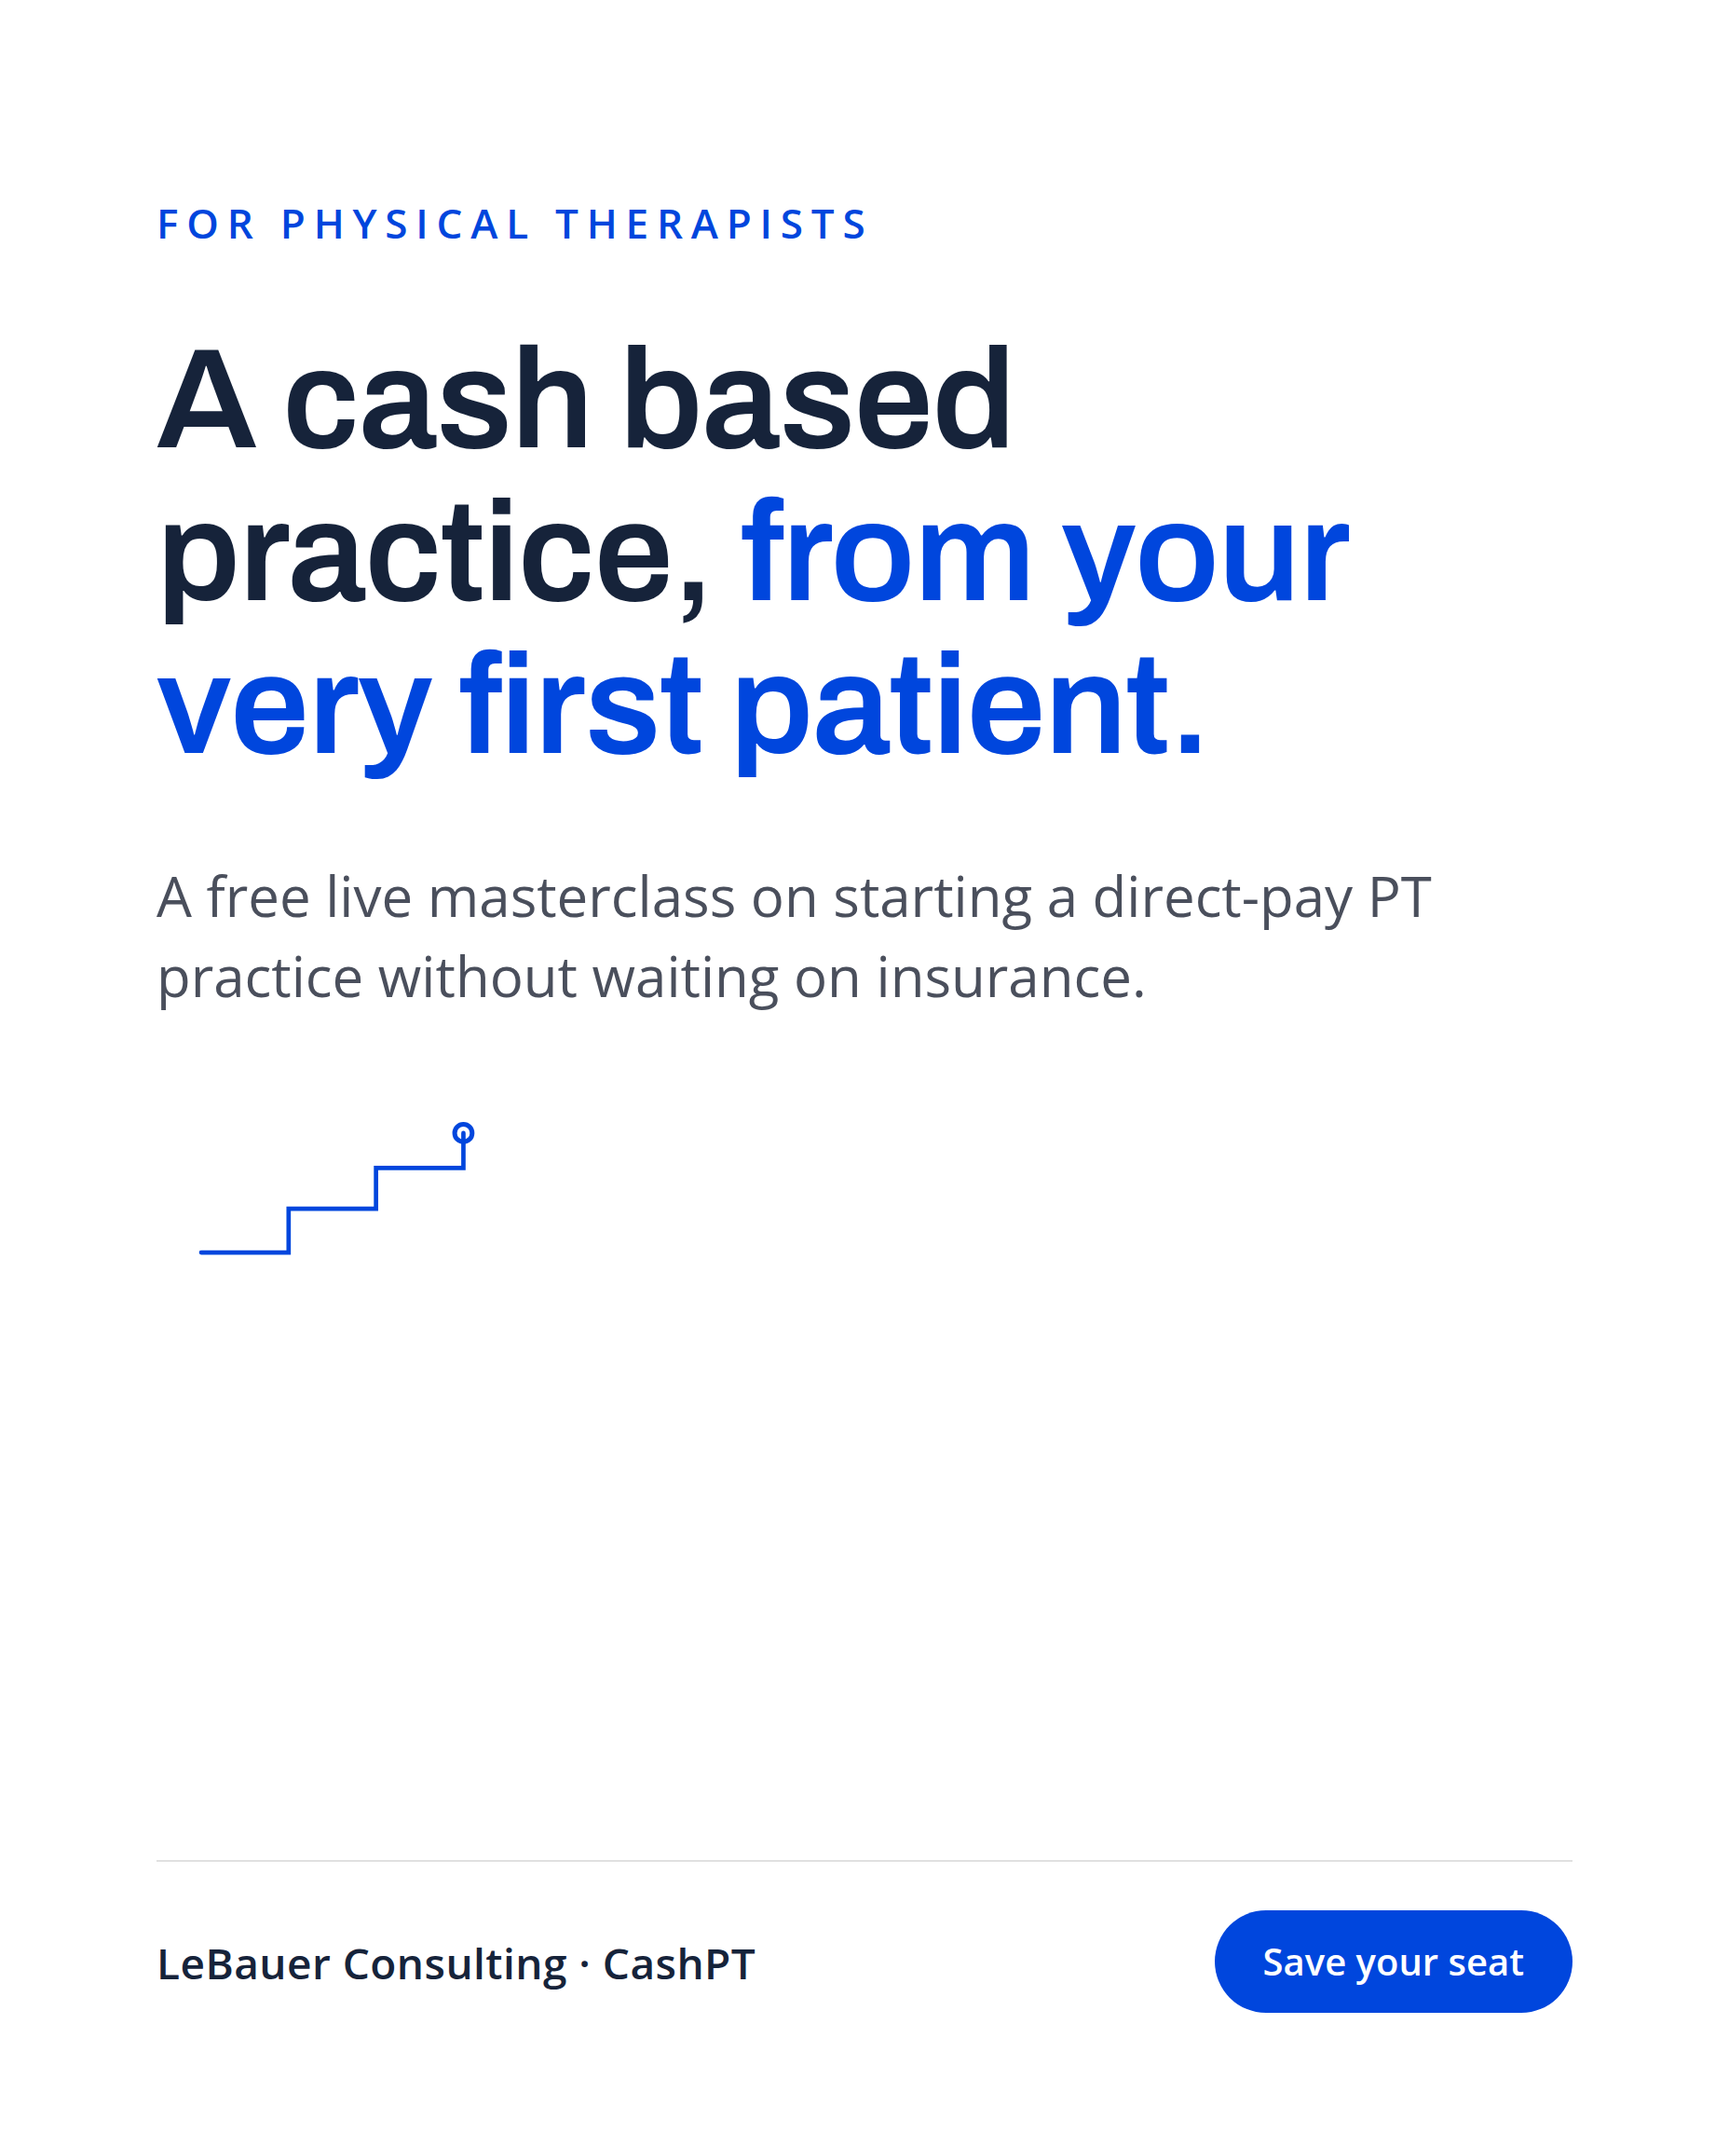
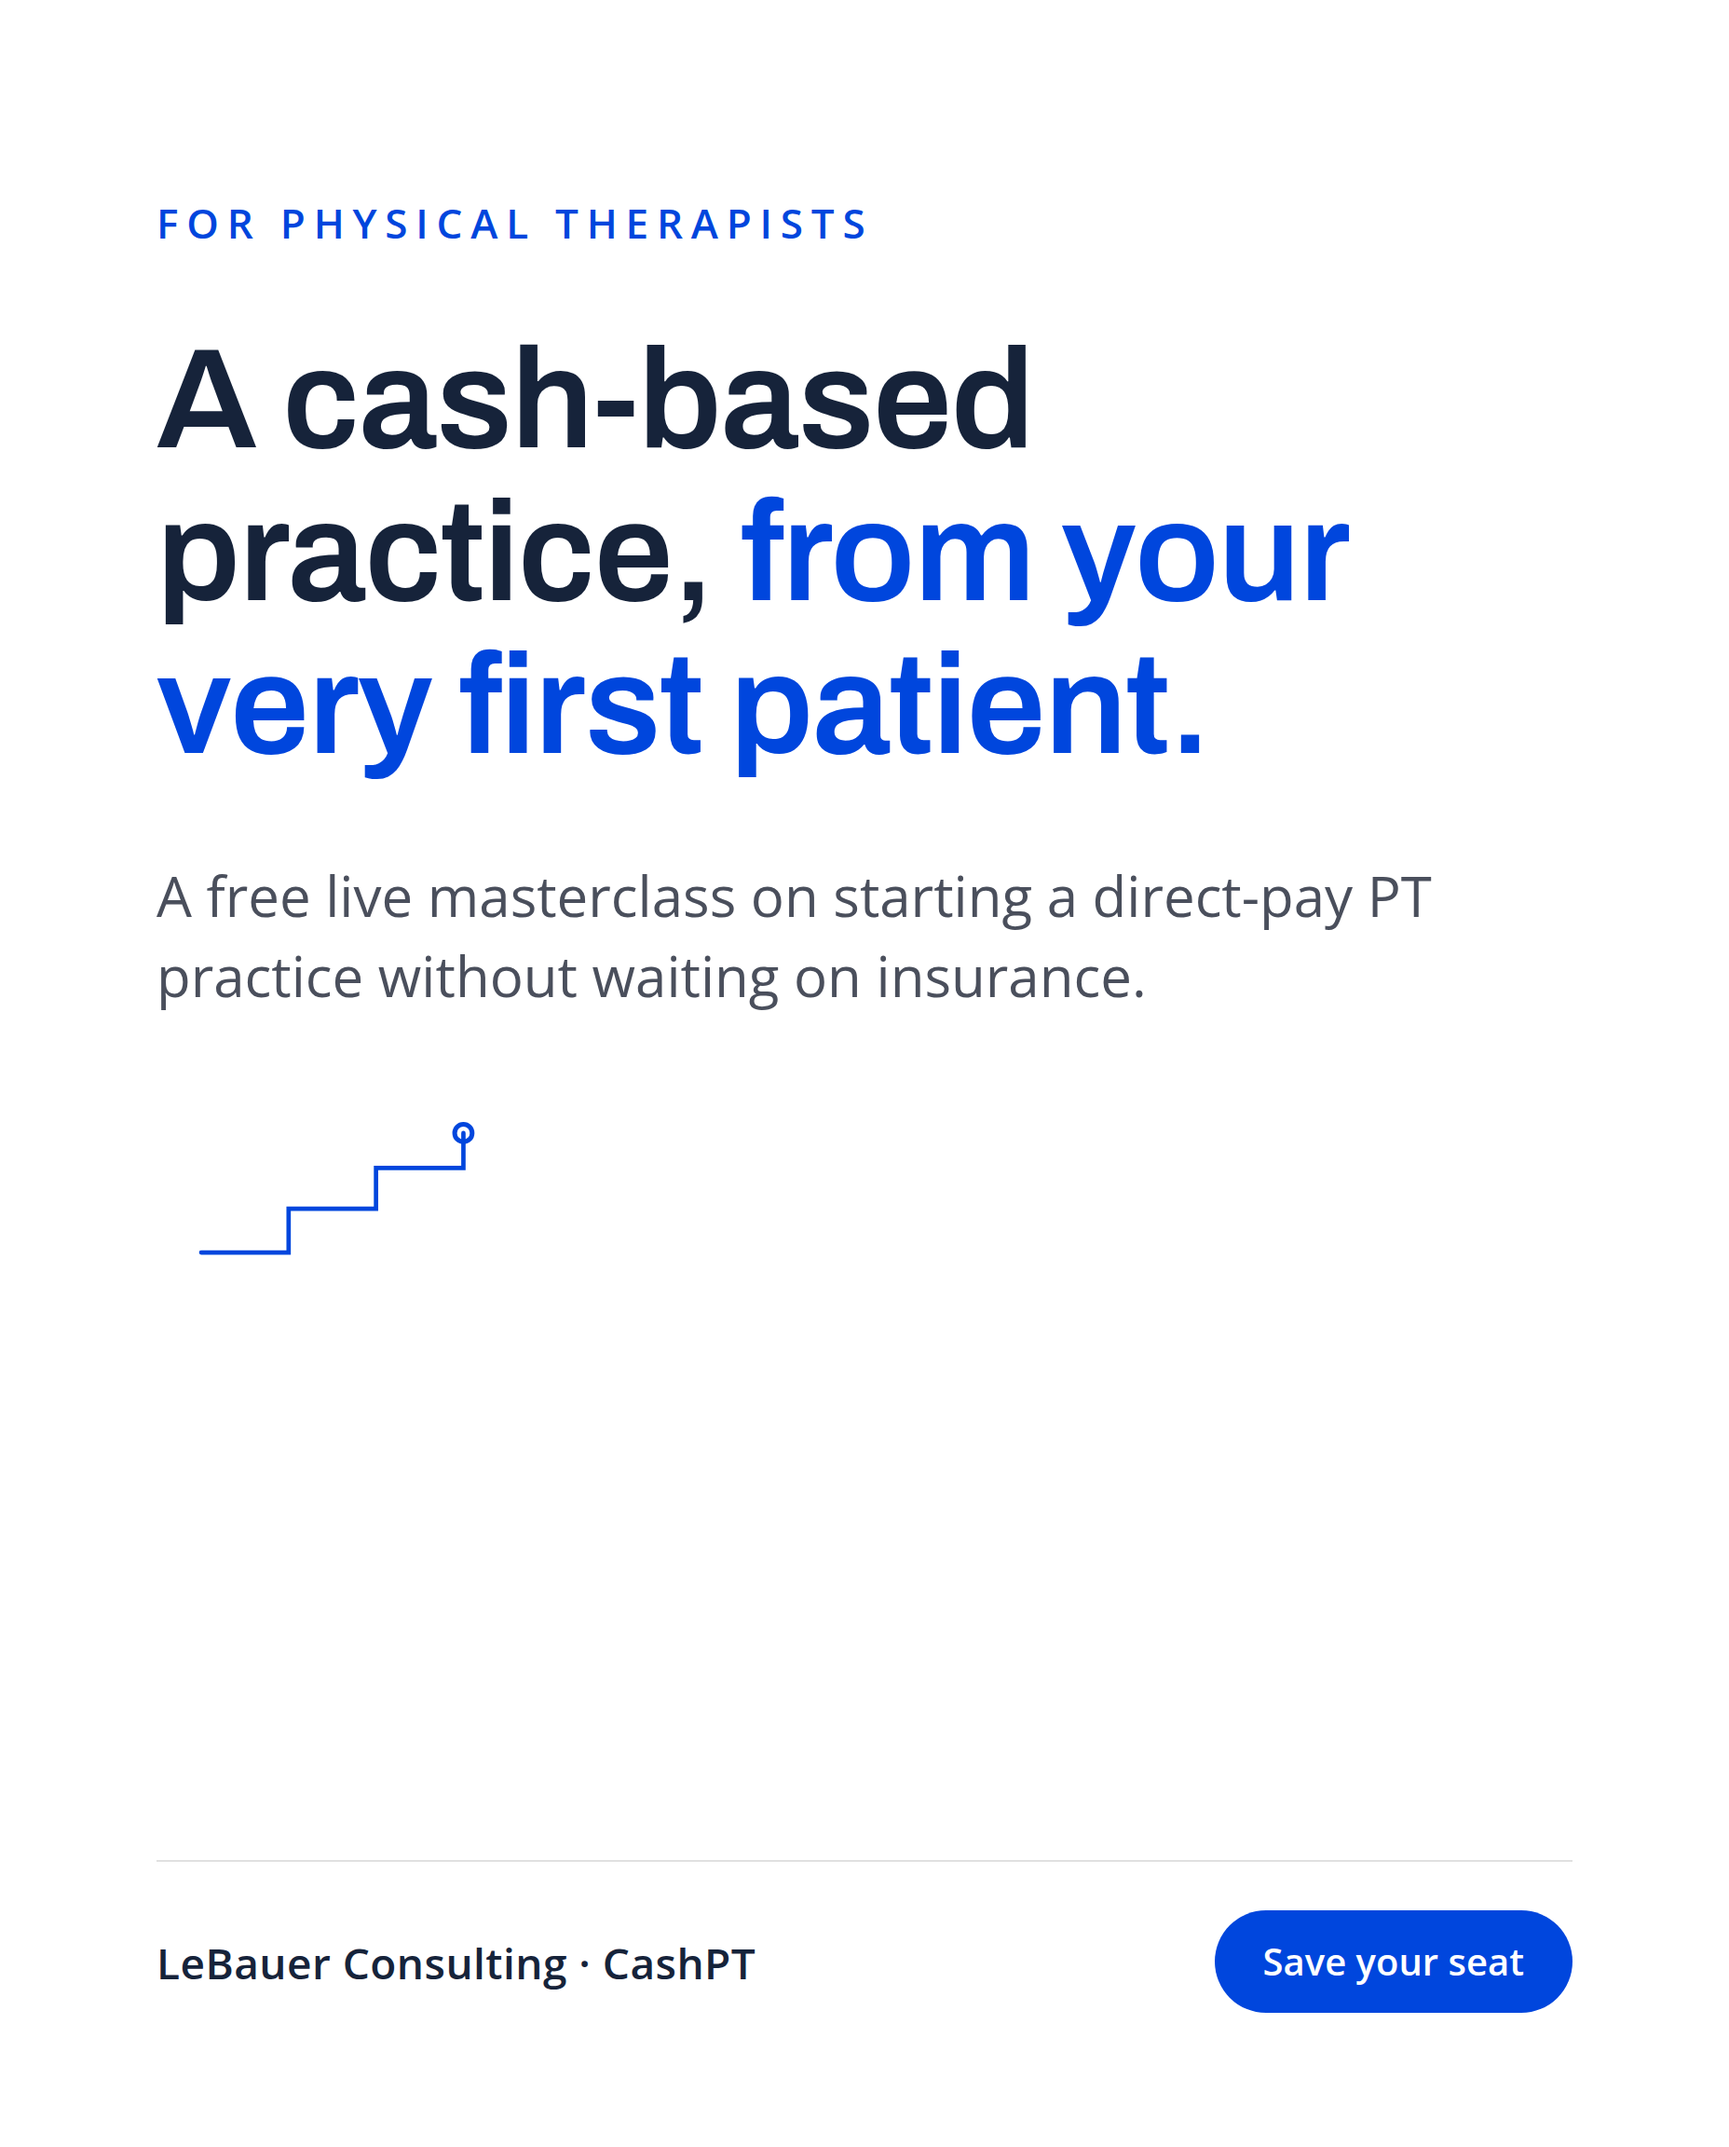
showcase: aaron-lebauer

Changed region(s): [[0.3438, 0.1562, 0.5938, 0.2188]]

diff --git a/aaron-lebauer/index.html b/aaron-lebauer/index.html
@@ -73,18 +73,18 @@
   </div>
 
   <h1>The Cash From Day One Masterclass</h1>
-  <p class="framing">Here is what I mentioned in my email: the masterclass, the numbers, and the auction data that did not fit in the message. You already built the hard part: the CashPT Blueprint, the Platinum Mastermind, and a Free Masterclass that fills from your podcast and CashPT Nation. <strong>What you don't have is a system to bring in physical therapists who have never heard of you and convert them into CashPT Platinum Mastermind members.</strong> This live masterclass is a second, always-on funnel that runs alongside your Free Masterclass, its own paid path into your Mastermind. This is that system.</p>
+  <p class="framing">Here is what I mentioned in my email: the masterclass, the numbers, and the auction data that did not fit in the message. You already built the hard part: the CashPT Blueprint, the Platinum Mastermind, and a Free Masterclass that fills from your podcast and CashPT Nation. <strong>What you don't have is a system to bring in physical therapists who have never heard of you and convert them into CashPT Platinum Mastermind members.</strong> The paid ads register cold physical therapists into this new live masterclass, a second funnel that runs alongside your organic Free Masterclass and warms those therapists for the Platinum Mastermind. This is that system.</p>
 
   <div class="section">
-    <div class="section-label">The masterclass, already built</div>
+    <div class="section-label">The masterclass, built as a sample</div>
     <iframe class="deck-embed" src="/aaron-lebauer/deck.html" allowfullscreen></iframe>
-    <div class="deck-caption">Rather than describe what I would build, I built a piece of it: a therapist-facing masterclass drawn from your CashPT Blueprint and your day-one cash story, ready to present under your name. Use arrow keys or click to navigate.</div>
+    <div class="deck-caption">Rather than describe what I would build, I built a working sample of it: a live therapist-facing masterclass drawn from your CashPT Blueprint and your day-one cash story, ready to present under your name. Use arrow keys or click to navigate.</div>
   </div>
 
   <div class="section">
     <div class="section-label">Concepts to test first</div>
     <div class="ad-grid">
-      <img src="/aaron-lebauer/ad01.png" alt="Ad concept: a cash based practice from your very first patient">
+      <img src="/aaron-lebauer/ad01.png" alt="Ad concept: a cash-based practice from your very first patient">
       <img src="/aaron-lebauer/ad02.png" alt="Ad concept: insurance pays you less every year to work more">
       <img src="/aaron-lebauer/ad03.png" alt="Ad concept: you don't need a clinic lease to go cash">
       <img src="/aaron-lebauer/ad04.png" alt="Ad concept: the best PT in town is the one nobody can find">
@@ -109,7 +109,7 @@
         <tr class="hl"><td>Mastermind applications / month</td><td>~2</td><td>~8</td></tr>
       </tbody>
     </table>
-    <p class="fn">The math stops at qualified applications on purpose. What a new Mastermind member is worth is your number, not mine, so I left it out rather than guess. At $1,500 a month in ad spend that is roughly $9 to $25 per registration, and your enrollment process stays exactly as it is.</p>
+    <p class="fn">The math stops at qualified applications on purpose. What a new Mastermind member is worth is your number, not mine, so I left it out rather than guess. At $1,500 a month in ad spend that is roughly $15 to $25 per registration, and your enrollment process stays exactly as it is.</p>
   </div>
 
   <div class="section">
@@ -151,14 +151,12 @@
 
 </main>
 
-<!-- 780 showcase view tracker v2 -->
+<!-- 780 showcase view tracker -->
 <script>
 (function(){
-  // Never phone home from an automated browser (headless / Playwright / the
-  // build+verify browser). navigator.webdriver is true for all of them.
   if(navigator.webdriver){return;}
   var EP="https://780marketing.ca/api/track";
-  var SLUG="aaron-lebauer", NAME="For Aaron LeBauer | Dustin at 780 Marketing", V="pt-business-coaches-d100";
+  var SLUG="aaron-lebauer", NAME="For Aaron LeBauer | Dustin at 780 Marketing", V="";
   var vid=Math.random().toString(36).slice(2)+Date.now().toString(36);
   function send(ev,extra){
     try{
@@ -171,9 +169,6 @@
     }catch(e){}
   }
   send("load");
-  // "engaged" = 5s with the tab visible AND at least one real interaction.
-  // Link scanners (Defender Safe Links etc.) render the page but don't scroll
-  // or move a pointer, so they top out at "dwell" — logged, never alerted.
   var ix=false, dwell=false, engaged=false, dwellSent=false;
   function maybe(){
     if(engaged||!dwell)return;

diff --git a/aaron-lebauer/deck.html b/aaron-lebauer/deck.html
@@ -11,9 +11,6 @@
 <style>
   *,*::before,*::after{margin:0;padding:0;box-sizing:border-box}
   :root{
-    /* Palette from his own live site probe (brand.json): light scheme, white ground,
-       brand navy #134aa1 / #072B63 and the live link blue #0046dd; Open Sans is his
-       own face. Panel is a deepened navy for the section-break slides. */
     --bg:#ffffff; --panel:#0b2f6e; --rule:#e6ebf3;
     --ink:#16233a; --accent:#0046dd; --grey:#55617a; --dim:#9aa3b2;
   }
@@ -66,12 +63,10 @@
 <div class="nav prev" id="prev"></div>
 <div class="nav next" id="next"></div>
 <div class="hud"><i id="bar"></i></div>
-<div class="count" id="count">01 / 19</div>
+<div class="count" id="count">01 / 20</div>
 <div class="brand-foot">LeBauer Consulting · CashPT</div>
 <div class="hint" id="hint">&rarr; click or arrow keys</div>
 
-<!-- rise motif: the day-one cash start drawn as a single line off the block, a starting
-     dot at day one and one confident upstroke. Brand navy + #0046dd from brand.json. -->
 <svg width="0" height="0" style="position:absolute"><defs>
 <symbol id="dayone" viewBox="0 0 260 120">
   <g fill="none">
@@ -96,7 +91,7 @@ const S = [
 
  {t:'section',idx:'Part Two',title:'The CashPT Blueprint'},
  {t:'normal',k:'Position as the direct-pay expert',title:'Stop being a provider on a list. Become the person they came to see.',body:'The Blueprint starts with positioning: a clear promise to a specific patient who values getting better fast over getting billed slowly. When you are the obvious choice for that person, price stops being the conversation.'},
- {t:'normal',k:'Market directly to patients',title:'Go around the referral gate and speak to the patient yourself.',body:'Content, community, and a simple local presence that reaches the patient before a doctor ever does. Direct-to-patient marketing is the engine of a cash practice: it fills the schedule with people who already decided they want you.'},
+ {t:'normal',k:'Market directly to patients',title:'Go around the referral gate and speak to the patient yourself.',body:'Content, community, and a simple local presence that reaches the patient before a doctor ever does. Direct-to-patient marketing is the engine of a cash practice: done well, it can fill the schedule with people who already decided they want you.'},
  {t:'normal',k:'Convert and price for cash',title:'The discovery visit does the selling. The price reflects the outcome.',body:'A repeatable first-visit conversation that turns interest into a plan of care, and cash pricing built on the result you deliver rather than a fee schedule. This is the mechanic that makes a full-fee practice actually run.'},
  {t:'dark',title:'A cash practice is not a leap of faith. It is a system you install, one piece at a time.'},
 
@@ -108,7 +103,7 @@ const S = [
  {t:'section',idx:'Who Is Teaching This',title:'Proof It Works From Day One'},
  {t:'normal',k:'Not theory',title:'A cash practice built out of PT school, and a clinic still running today.',body:'This is not a plan drawn on a whiteboard. It started as one direct-pay practice that never took insurance, grew into a multi-therapist clinic, and became the method thousands of PTs have used to leave the reimbursement treadmill behind.'},
  {t:'normal',k:'How it works',title:'The masterclass teaches the model. The Mastermind is where you build it with support.',body:'This hour lays out the map: why the model caps you, the Blueprint, and the path that fits your life. From there, the CashPT Platinum Mastermind is the room where you install it alongside PTs doing the same.'},
- {t:'cta',title:'Ready to get paid in full for the work you already do best?',chips:['Join the CashPT Platinum Mastermind'],disc:'Educational content for physical therapists building a practice. No income, revenue, or business result is guaranteed. Results vary by therapist, market, and effort.'},
+ {t:'cta',title:'Ready to get paid in full for the work you already do best?',chips:['Apply to the CashPT Platinum Mastermind'],disc:'Educational content for physical therapists building a practice. No income, revenue, or business result is guaranteed. Results vary by therapist, market, and effort.'},
 ];
 
 const deck=document.getElementById('deck');
